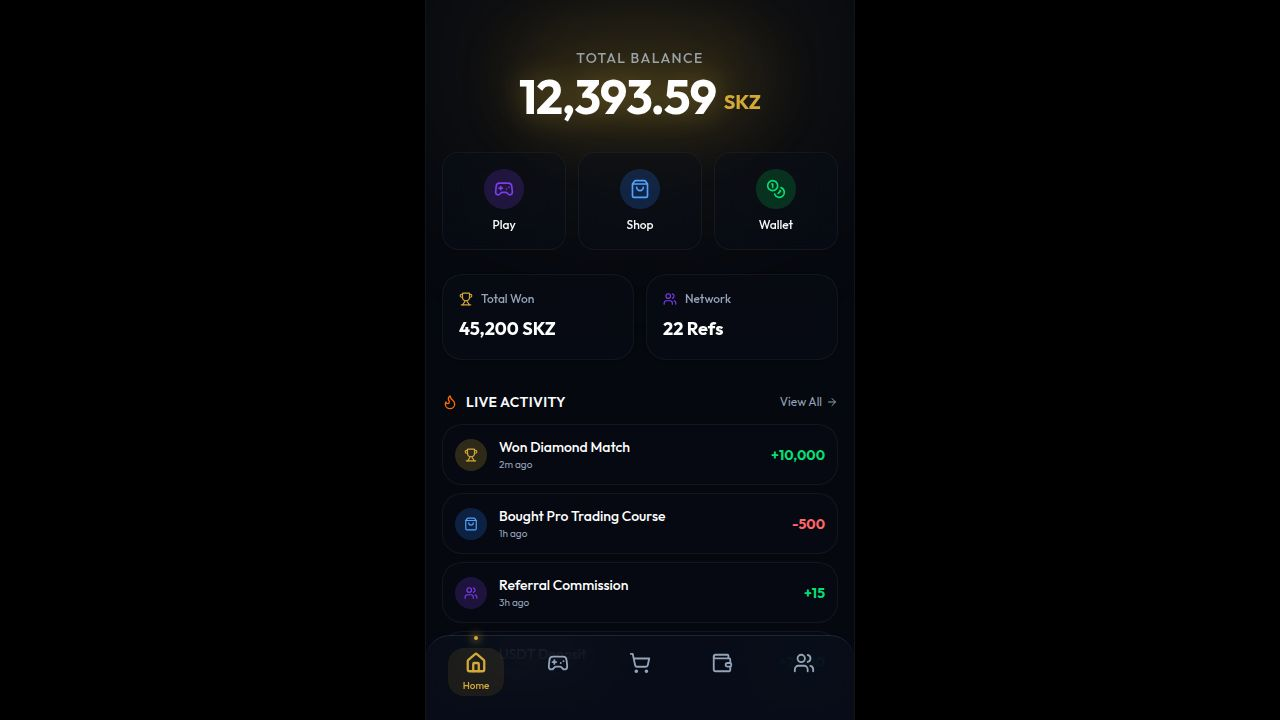
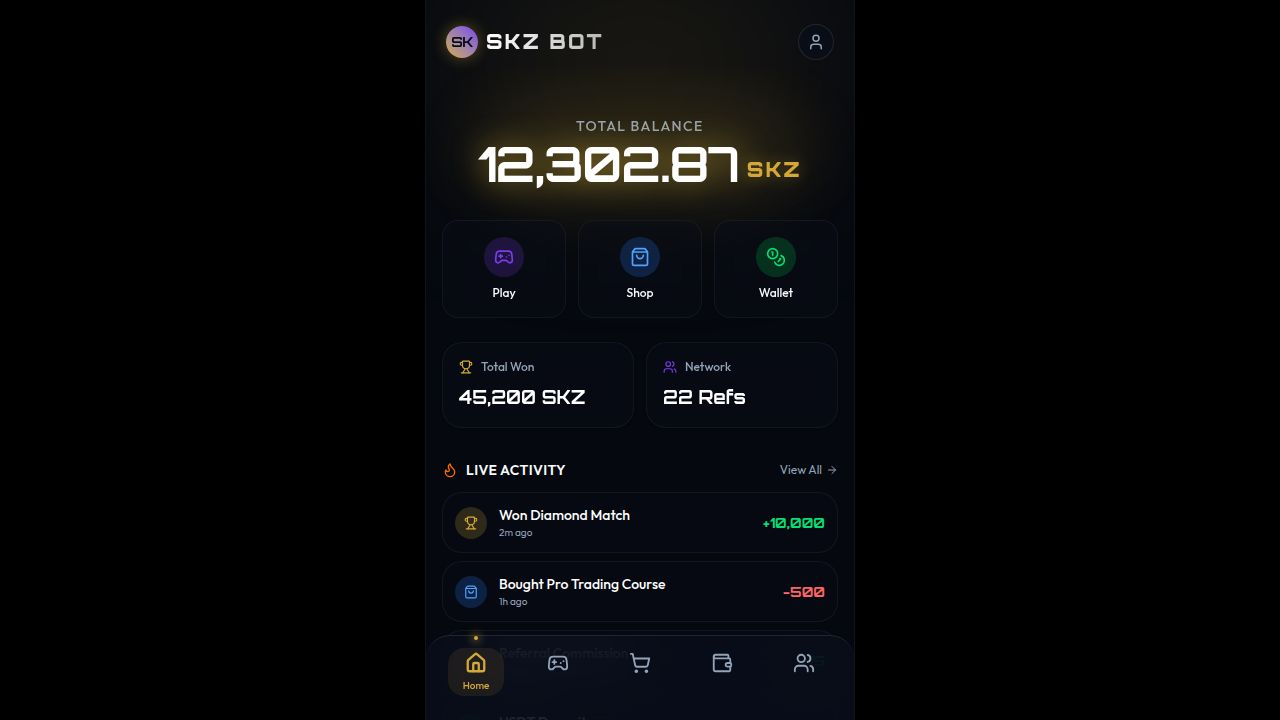
Implement target line and countdown timer mechanics for skill games
Add a universal target-line and countdown timer rule to all SKZ Bot skill games. This includes a visual target line, a depleting countdown bar with urgency indicators, and level progression based on reaching targets before time expires. The timer is now frame-rate independent and updates HUD elements efficiently. A fix is also included for a canvas drawing error when drawing rounded rectangles with non-positive dimensions.

Replit-Commit-Author: Agent
Replit-Commit-Session-Id: a357fec1-a16e-4dc6-830b-7cd907bfefed
Replit-Commit-Checkpoint-Type: full_checkpoint
Replit-Commit-Event-Id: fd7d2da7-6e85-4bb5-ab1f-b9f8206b9119
Replit-Commit-Screenshot-Url: https://storage.googleapis.com/screenshot-production-us-central1/92aa07a3-dcfd-4c10-bbba-c2fbcb157811/a357fec1-a16e-4dc6-830b-7cd907bfefed/gYwljCM
Replit-Helium-Checkpoint-Created: true

diff --git a/artifacts/skz-bot/src/pages/stack-game.tsx b/artifacts/skz-bot/src/pages/stack-game.tsx
@@ -38,9 +38,19 @@ interface GameState {
   running: boolean;
   score: number;
   combo: number;
+  timeLeft: number;
+  timeMax: number;
+  target: number;
+  level: number;
 }
 
 const BEST_KEY = "skz_stack_best";
+
+// ---- Target line / countdown rule (applies to all SKZ Bot games) ----
+const INITIAL_TIME = 18; // seconds to reach the first target line
+const FIRST_TARGET = 8; // blocks needed to clear the first target
+const targetGap = (level: number) => 6 + level; // blocks added to reach the next target
+const timeBonus = (level: number) => Math.max(8, 15 - level); // seconds granted per target reached
 
 // ---- Audio engine (Web Audio API, no asset files) ----
 class AudioEngine {
@@ -123,6 +133,17 @@ class AudioEngine {
     [392, 311, 261, 196].forEach((f, i) => this.tone(f, 0.3, "sawtooth", 0.25, i * 0.12));
   }
 
+  // countdown tick when time is running low
+  tick(urgent = false) {
+    this.tone(urgent ? 920 : 660, 0.07, "square", urgent ? 0.22 : 0.13);
+  }
+
+  // target line reached
+  goal() {
+    [523.25, 659.25, 783.99, 1046.5].forEach((f, i) => this.tone(f, 0.24, "triangle", 0.34, i * 0.07));
+    this.tone(261.6, 0.5, "sine", 0.2);
+  }
+
   start() {
     [392, 523, 659].forEach((f, i) => this.tone(f, 0.18, "triangle", 0.3, i * 0.06));
   }
@@ -146,12 +167,20 @@ export default function StackGame() {
   const audioRef = useRef<AudioEngine>(new AudioEngine());
   const sizeRef = useRef<{ w: number; h: number; dpr: number }>({ w: 0, h: 0, dpr: 1 });
 
+  const lastSecRef = useRef<number>(0);
+  const timerBarRef = useRef<HTMLDivElement>(null);
+
   const [phase, setPhase] = useState<Phase>("ready");
   const [score, setScore] = useState(0);
   const [combo, setCombo] = useState(0);
   const [best, setBest] = useState(0);
   const [muted, setMuted] = useState(false);
   const [comboFlash, setComboFlash] = useState<{ n: number; perfect: boolean; key: number } | null>(null);
+  const [timeLeft, setTimeLeft] = useState(INITIAL_TIME);
+  const [target, setTarget] = useState(FIRST_TARGET);
+  const [level, setLevel] = useState(1);
+  const [overReason, setOverReason] = useState<"crash" | "time">("crash");
+  const [goalFlash, setGoalFlash] = useState<{ level: number; key: number } | null>(null);
 
   useEffect(() => {
     const stored = Number(localStorage.getItem(BEST_KEY) || "0");
@@ -201,11 +230,16 @@ export default function StackGame() {
       running: true,
       score: 0,
       combo: 0,
+      timeLeft: INITIAL_TIME,
+      timeMax: INITIAL_TIME,
+      target: FIRST_TARGET,
+      level: 1,
     };
   }, []);
 
   const drawRoundRect = (ctx: CanvasRenderingContext2D, x: number, y: number, w: number, h: number, r: number) => {
-    const rad = Math.min(r, w / 2, h / 2);
+    if (w <= 0 || h <= 0) return;
+    const rad = Math.max(0, Math.min(r, w / 2, h / 2));
     ctx.beginPath();
     ctx.moveTo(x + rad, y);
     ctx.arcTo(x + w, y, x + w, y + h, rad);
@@ -250,6 +284,29 @@ export default function StackGame() {
     if (!g.lastTime) g.lastTime = time;
     const dt = Math.min((time - g.lastTime) / 1000, 0.05);
     g.lastTime = time;
+
+    // Countdown timer
+    if (g.running) {
+      g.timeLeft = Math.max(0, g.timeLeft - dt);
+      const sec = Math.ceil(g.timeLeft);
+      if (sec !== lastSecRef.current) {
+        lastSecRef.current = sec;
+        setTimeLeft(sec);
+        if (sec <= 5 && sec > 0) audioRef.current.tick(sec <= 3);
+      }
+      const ratio = Math.max(0, Math.min(1, g.timeLeft / g.timeMax));
+      const bar = timerBarRef.current;
+      if (bar) {
+        bar.style.width = `${ratio * 100}%`;
+        bar.style.backgroundImage =
+          ratio <= 0.28
+            ? "linear-gradient(to right, rgb(239,68,68), rgb(251,146,60))"
+            : "linear-gradient(to right, hsl(43 65% 53%), hsl(262 83% 58%))";
+      }
+      if (g.timeLeft <= 0) {
+        endRef.current(g.score, "time");
+      }
+    }
 
     // Move active block
     if (g.moving && g.running) {
@@ -314,6 +371,43 @@ export default function StackGame() {
       paintBlock(ctx, b.x, y, b.w, g.blockH - 4, b.index, false);
     }
 
+    // ---- Interactive TARGET LINE: must be reached before the timer hits zero ----
+    if (g.running) {
+      const targetWorldTop = g.target * g.blockH; // top edge of the target block level
+      const rawY = screenY(targetWorldTop) + (g.blockH - 4) / 2;
+      const pulse = 0.55 + 0.45 * Math.sin(time / 220);
+      const remaining = Math.max(0, g.target - g.score);
+      if (rawY > 40 && rawY < h - 6) {
+        // line is on screen
+        ctx.save();
+        ctx.strokeStyle = `rgba(212,175,55,${0.7 + 0.3 * pulse})`;
+        ctx.lineWidth = 2;
+        ctx.setLineDash([12, 9]);
+        ctx.lineDashOffset = -(time / 28) % 21;
+        ctx.shadowColor = "rgba(212,175,55,0.85)";
+        ctx.shadowBlur = 14 * pulse + 6;
+        ctx.beginPath();
+        ctx.moveTo(0, rawY);
+        ctx.lineTo(w, rawY);
+        ctx.stroke();
+        ctx.restore();
+        ctx.save();
+        ctx.fillStyle = "rgba(212,175,55,0.95)";
+        ctx.font = "700 11px Orbitron, sans-serif";
+        ctx.textBaseline = "bottom";
+        ctx.fillText(`TARGET · ${remaining} TO GO`, 12, rawY - 6);
+        ctx.restore();
+      } else if (rawY <= 40) {
+        // target is above the viewport — pin a chevron indicator at the top
+        ctx.save();
+        ctx.fillStyle = `rgba(212,175,55,${0.6 + 0.4 * pulse})`;
+        ctx.font = "700 11px Orbitron, sans-serif";
+        ctx.textAlign = "center";
+        ctx.fillText(`▲ TARGET · ${remaining} TO GO`, w / 2, 92);
+        ctx.restore();
+      }
+    }
+
     // moving block
     if (g.moving && g.running) {
       const worldY = g.moving.index * g.blockH;
@@ -365,17 +459,24 @@ export default function StackGame() {
   const startGame = useCallback(() => {
     audioRef.current.start();
     gameRef.current = newGameState();
+    lastSecRef.current = INITIAL_TIME;
     setScore(0);
     setCombo(0);
     setComboFlash(null);
+    setTimeLeft(INITIAL_TIME);
+    if (timerBarRef.current) timerBarRef.current.style.width = "100%";
+    setTarget(FIRST_TARGET);
+    setLevel(1);
+    setGoalFlash(null);
     setPhase("playing");
     startLoop();
   }, [newGameState, startLoop]);
 
-  const endGame = useCallback((finalScore: number) => {
+  const endGame = useCallback((finalScore: number, reason: "crash" | "time" = "crash") => {
     const g = gameRef.current;
     if (g) g.running = false;
     audioRef.current.gameOver();
+    setOverReason(reason);
     setPhase("over");
     setBest((prev) => {
       const next = Math.max(prev, finalScore);
@@ -383,6 +484,12 @@ export default function StackGame() {
       return next;
     });
   }, []);
+
+  // Keep a stable ref so the rAF loop can end the game without re-creating the loop.
+  const endRef = useRef(endGame);
+  useEffect(() => {
+    endRef.current = endGame;
+  }, [endGame]);
 
   const dropBlock = useCallback(() => {
     const g = gameRef.current;
@@ -471,6 +578,20 @@ export default function StackGame() {
     setScore(g.score);
     setCombo(g.combo);
 
+    // TARGET LINE reached -> clear checkpoint, grant bonus time, raise the next target
+    if (g.score >= g.target) {
+      g.level += 1;
+      g.target += targetGap(g.level);
+      g.timeLeft += timeBonus(g.level);
+      g.timeMax = g.timeLeft;
+      lastSecRef.current = Math.ceil(g.timeLeft);
+      audioRef.current.goal();
+      setLevel(g.level);
+      setTarget(g.target);
+      setTimeLeft(Math.ceil(g.timeLeft));
+      setGoalFlash({ level: g.level, key: Date.now() });
+    }
+
     // spawn next moving block from alternating side
     const spawnLeft = mv.index % 2 === 0;
     g.moving = {
@@ -532,6 +653,11 @@ export default function StackGame() {
           <span data-testid="text-score" className="font-display font-black text-4xl text-white leading-none drop-shadow-[0_0_18px_rgba(212,175,55,0.4)]">
             {score}
           </span>
+          {phase === "playing" && (
+            <span className="text-[9px] tracking-[0.25em] text-primary/80 font-display uppercase mt-0.5">
+              LVL {level} · TARGET {target}
+            </span>
+          )}
         </div>
 
         <button
@@ -548,6 +674,55 @@ export default function StackGame() {
         <Trophy size={11} className="text-primary" />
         <span data-testid="text-best" className="text-[11px] font-display font-bold text-white/80 tracking-wide">BEST {best}</span>
       </div>
+
+      {/* Countdown timer bar */}
+      {phase === "playing" && (
+        <div className="absolute top-[88px] left-1/2 -translate-x-1/2 z-30 w-[62%] flex flex-col items-center gap-1">
+          <div className="w-full flex items-center justify-between px-0.5">
+            <span className="text-[9px] tracking-[0.25em] text-white/40 font-display uppercase">Time</span>
+            <span
+              data-testid="text-timer"
+              className={`text-[11px] font-display font-bold tracking-wider tabular-nums ${
+                timeLeft <= 5 ? "text-red-400" : "text-white/80"
+              }`}
+            >
+              {timeLeft}s
+            </span>
+          </div>
+          <div className="w-full h-1.5 rounded-full bg-white/10 overflow-hidden">
+            <div
+              ref={timerBarRef}
+              data-testid="bar-timer"
+              className="h-full rounded-full bg-gradient-to-r from-primary to-accent"
+              style={{ width: "100%" }}
+            />
+          </div>
+        </div>
+      )}
+
+      {/* Target reached flash */}
+      <AnimatePresence>
+        {goalFlash && (
+          <motion.div
+            key={goalFlash.key}
+            initial={{ opacity: 0, scale: 0.6, y: 14 }}
+            animate={{ opacity: 1, scale: 1, y: 0 }}
+            exit={{ opacity: 0, scale: 1.25, y: -24 }}
+            transition={{ duration: 0.5, ease: [0.22, 1, 0.36, 1] }}
+            onAnimationComplete={() => setGoalFlash((g) => (g && g.key === goalFlash.key ? null : g))}
+            className="absolute top-[36%] left-1/2 -translate-x-1/2 z-30 pointer-events-none"
+          >
+            <div className="flex flex-col items-center">
+              <span className="font-display font-black text-3xl text-transparent bg-clip-text bg-gradient-to-r from-primary via-yellow-200 to-accent drop-shadow-[0_0_24px_rgba(212,175,55,0.8)]">
+                TARGET CLEARED
+              </span>
+              <span className="font-display font-bold text-sm text-accent tracking-widest mt-1">
+                LEVEL {goalFlash.level} · +TIME
+              </span>
+            </div>
+          </motion.div>
+        )}
+      </AnimatePresence>
 
       {/* Combo flash */}
       <AnimatePresence>
@@ -598,9 +773,14 @@ export default function StackGame() {
               <h1 className="font-display font-black text-4xl leading-tight text-transparent bg-clip-text bg-gradient-to-br from-white via-primary to-accent mb-3">
                 STACK &<br />MATCH
               </h1>
-              <p className="text-sm text-white/60 max-w-[260px] leading-relaxed mb-8">
+              <p className="text-sm text-white/60 max-w-[260px] leading-relaxed mb-4">
                 Tap to drop each block. Line it up perfectly to keep your platform wide. Three perfects in a row and it grows back.
               </p>
+              <div className="flex items-center gap-2 mb-8 px-4 py-2 rounded-xl bg-primary/10 border border-primary/30">
+                <span className="text-[11px] text-primary font-display font-bold tracking-wide text-center leading-snug">
+                  Reach the glowing TARGET line before the timer runs out to bank time and level up.
+                </span>
+              </div>
               <motion.div
                 animate={{ scale: [1, 1.06, 1] }}
                 transition={{ duration: 1.4, repeat: Infinity }}
@@ -629,7 +809,14 @@ export default function StackGame() {
               transition={{ type: "spring", bounce: 0.35 }}
               className="w-full max-w-[300px] flex flex-col items-center text-center"
             >
-              <span className="text-xs tracking-[0.4em] text-white/40 font-display uppercase mb-2">Game Over</span>
+              <span
+                data-testid="text-over-reason"
+                className={`text-xs tracking-[0.4em] font-display uppercase mb-2 ${
+                  overReason === "time" ? "text-red-400" : "text-white/40"
+                }`}
+              >
+                {overReason === "time" ? "Time Up" : "Game Over"}
+              </span>
               <div className="font-display font-black text-6xl text-transparent bg-clip-text bg-gradient-to-br from-white to-primary mb-1" data-testid="text-final-score">
                 {score}
               </div>

diff --git a/.agents/memory/skz-bot-games.md b/.agents/memory/skz-bot-games.md
@@ -16,3 +16,13 @@ Skill games (e.g. Stack & Match) live as full-screen pages under `/games/<name>`
 **How to apply:** any canvas game MUST
 - stop its `requestAnimationFrame` loop once gameplay ends (keep it running only while playing OR while exit/debris animations are still settling, then let it stop), and
 - create the `AudioContext` lazily on first user gesture (autoplay policy) and `close()` it on component unmount.
+
+## Universal target-line + countdown rule (required for EVERY game)
+**Why:** user-mandated design rule for all SKZ Bot skill games — gameplay must have urgency and a clear checkpoint goal.
+**How to apply:** every game MUST have an interactive on-screen TARGET line/goal that the player must REACH before a countdown timer hits zero. Reaching it = clear the checkpoint, grant bonus time, raise the next target (level up). Running out of time = game over (distinguish "TIME UP" vs crash/"GAME OVER" in the end overlay).
+- Drive the timer off the rAF delta (`dt`), not a setInterval. Throttle HUD timer `setState` to whole-second changes via a ref (`lastSecRef`) — never setState the timer at 60fps. A separate ratio state for the depleting bar is fine.
+- Show: a countdown bar/number, current level + target, and a "TARGET CLEARED" flash on checkpoint.
+
+## Canvas drawing gotcha
+**Why:** `roundRect`/arcTo throws `IndexSizeError: radius is negative` when a block's width shrinks below ~0. Stacking games shrink the platform, so this WILL happen at runtime even when typecheck passes.
+**How to apply:** in any rounded-rect helper, early-return on `w<=0 || h<=0` and clamp radius with `Math.max(0, Math.min(r, w/2, h/2))`.